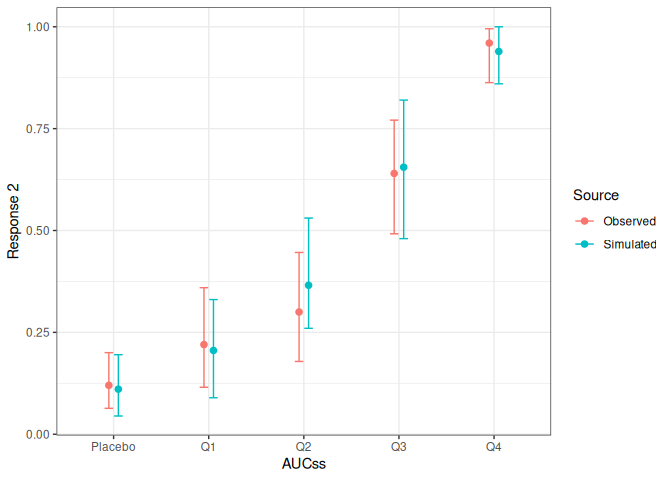
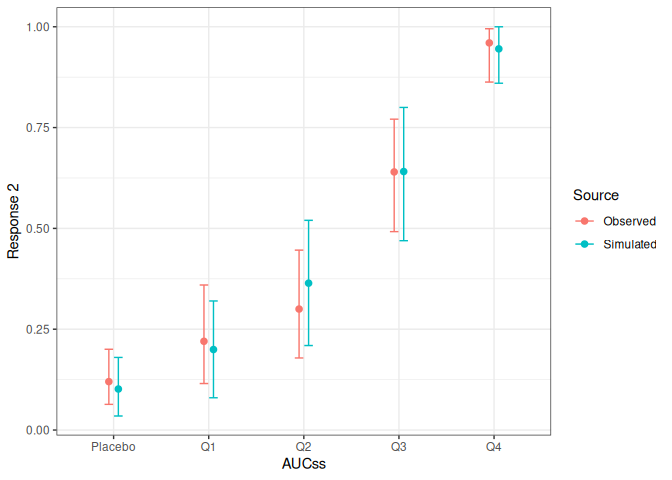
Deploying to gh-pages from @ djnavarro/erplots@d0dca09818415d12f3e38eb358de33095c21f835 🚀

diff --git a/index.html b/index.html
@@ -128,14 +128,14 @@
 <span><span class="co">#&gt; # A tibble: 30,000 × 5</span></span>
 <span><span class="co">#&gt;      ae2 aucss sex    row_id sim_id</span></span>
 <span><span class="co">#&gt;    &lt;int&gt; &lt;dbl&gt; &lt;fct&gt;   &lt;int&gt;  &lt;int&gt;</span></span>
-<span><span class="co">#&gt;  1     1  673. Male        1      1</span></span>
+<span><span class="co">#&gt;  1     0  673. Male        1      1</span></span>
 <span><span class="co">#&gt;  2     1 2806. Female      2      1</span></span>
-<span><span class="co">#&gt;  3     1    0  Female      3      1</span></span>
+<span><span class="co">#&gt;  3     0    0  Female      3      1</span></span>
 <span><span class="co">#&gt;  4     0 1169. Female      4      1</span></span>
-<span><span class="co">#&gt;  5     0  377. Male        5      1</span></span>
+<span><span class="co">#&gt;  5     1  377. Male        5      1</span></span>
 <span><span class="co">#&gt;  6     0  327. Female      6      1</span></span>
-<span><span class="co">#&gt;  7     1    0  Male        7      1</span></span>
-<span><span class="co">#&gt;  8     1 1208. Female      8      1</span></span>
+<span><span class="co">#&gt;  7     0    0  Male        7      1</span></span>
+<span><span class="co">#&gt;  8     0 1208. Female      8      1</span></span>
 <span><span class="co">#&gt;  9     0    0  Male        9      1</span></span>
 <span><span class="co">#&gt; 10     0  254. Female     10      1</span></span>
 <span><span class="co">#&gt; # ℹ 29,990 more rows</span></span>
@@ -182,7 +182,6 @@
 <h2 data-toc-skip>Dev status</h2>
 <ul class="list-unstyled">
 <li><a href="https://lifecycle.r-lib.org/articles/stages.html#experimental" class="external-link"><img src="https://img.shields.io/badge/lifecycle-experimental-orange.svg" alt="Lifecycle: experimental"></a></li>
-<li><a href="https://CRAN.R-project.org/package=erplots" class="external-link"><img src="https://www.r-pkg.org/badges/version/erplots" alt="CRAN status"></a></li>
 <li><a href="https://github.com/djnavarro/erplots/actions/workflows/R-CMD-check.yaml" class="external-link"><img src="https://github.com/djnavarro/erplots/actions/workflows/R-CMD-check.yaml/badge.svg" alt="R-CMD-check"></a></li>
 <li><a href="https://app.codecov.io/gh/djnavarro/erplots" class="external-link"><img src="https://codecov.io/gh/djnavarro/erplots/graph/badge.svg" alt="Codecov test coverage"></a></li>
 </ul>

diff --git a/index.md b/index.md
@@ -88,14 +88,14 @@ sim
 #> # A tibble: 30,000 × 5
 #>      ae2 aucss sex    row_id sim_id
 #>    <int> <dbl> <fct>   <int>  <int>
-#>  1     1  673. Male        1      1
+#>  1     0  673. Male        1      1
 #>  2     1 2806. Female      2      1
-#>  3     1    0  Female      3      1
+#>  3     0    0  Female      3      1
 #>  4     0 1169. Female      4      1
-#>  5     0  377. Male        5      1
+#>  5     1  377. Male        5      1
 #>  6     0  327. Female      6      1
-#>  7     1    0  Male        7      1
-#>  8     1 1208. Female      8      1
+#>  7     0    0  Male        7      1
+#>  8     0 1208. Female      8      1
 #>  9     0    0  Male        9      1
 #> 10     0  254. Female     10      1
 #> # ℹ 29,990 more rows